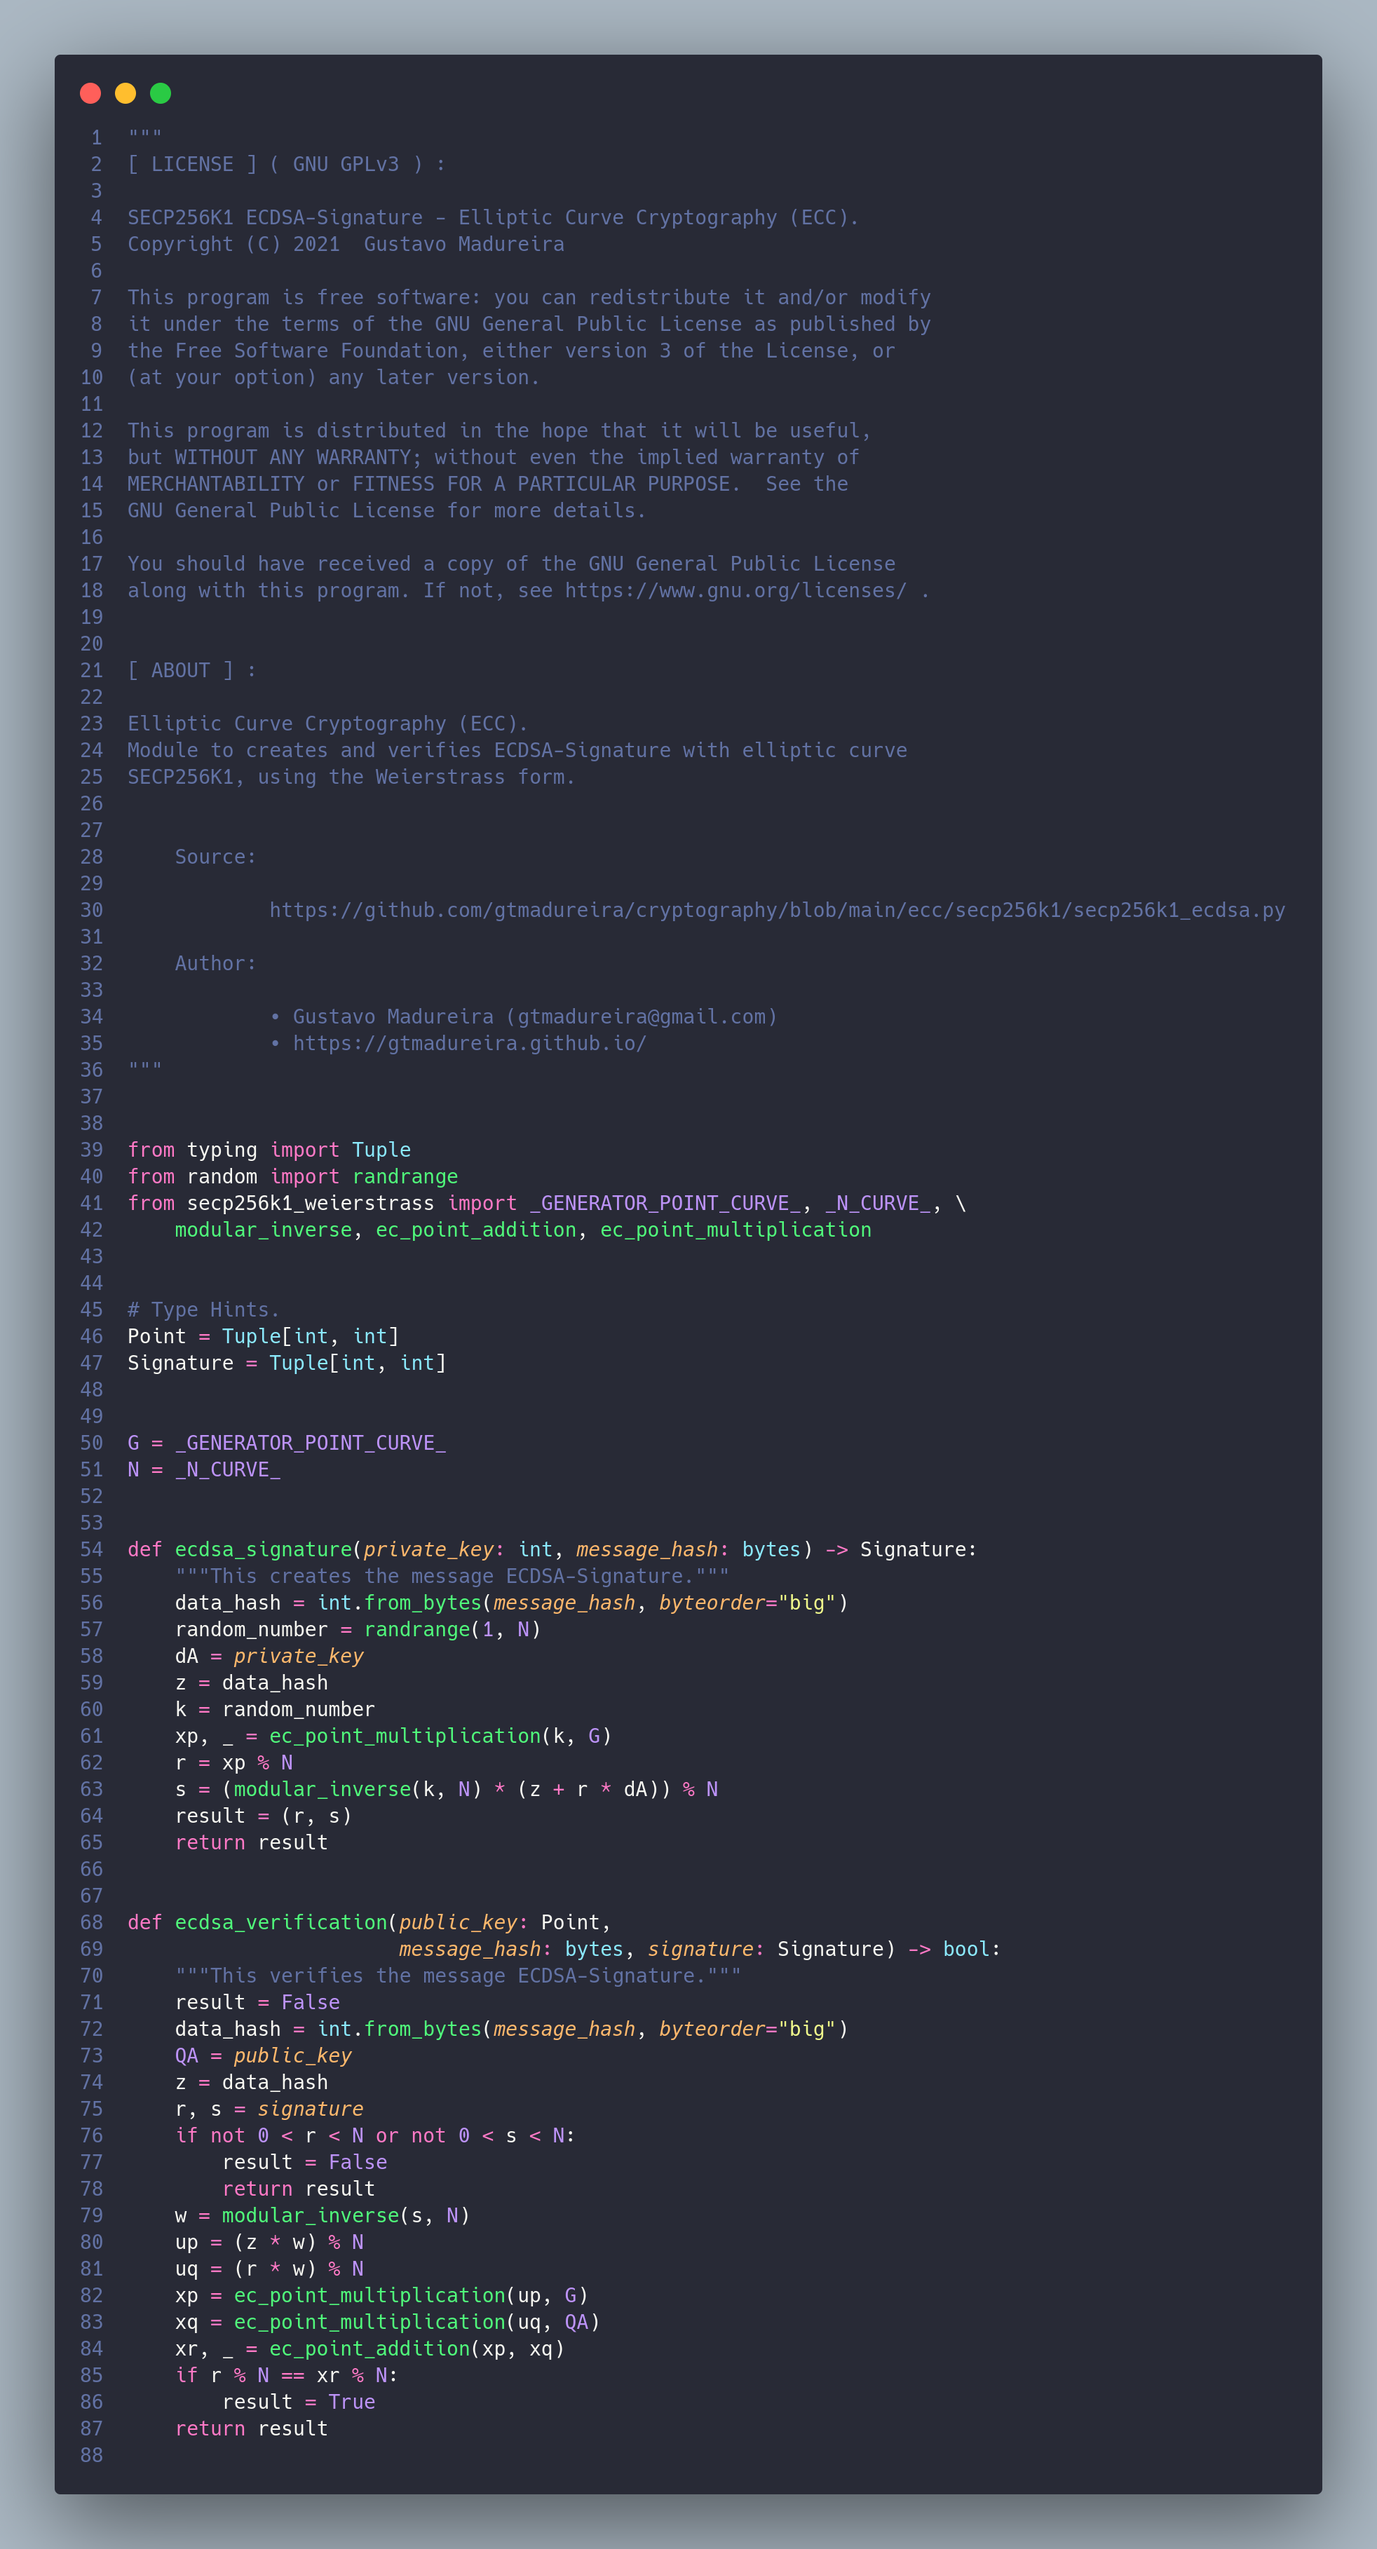
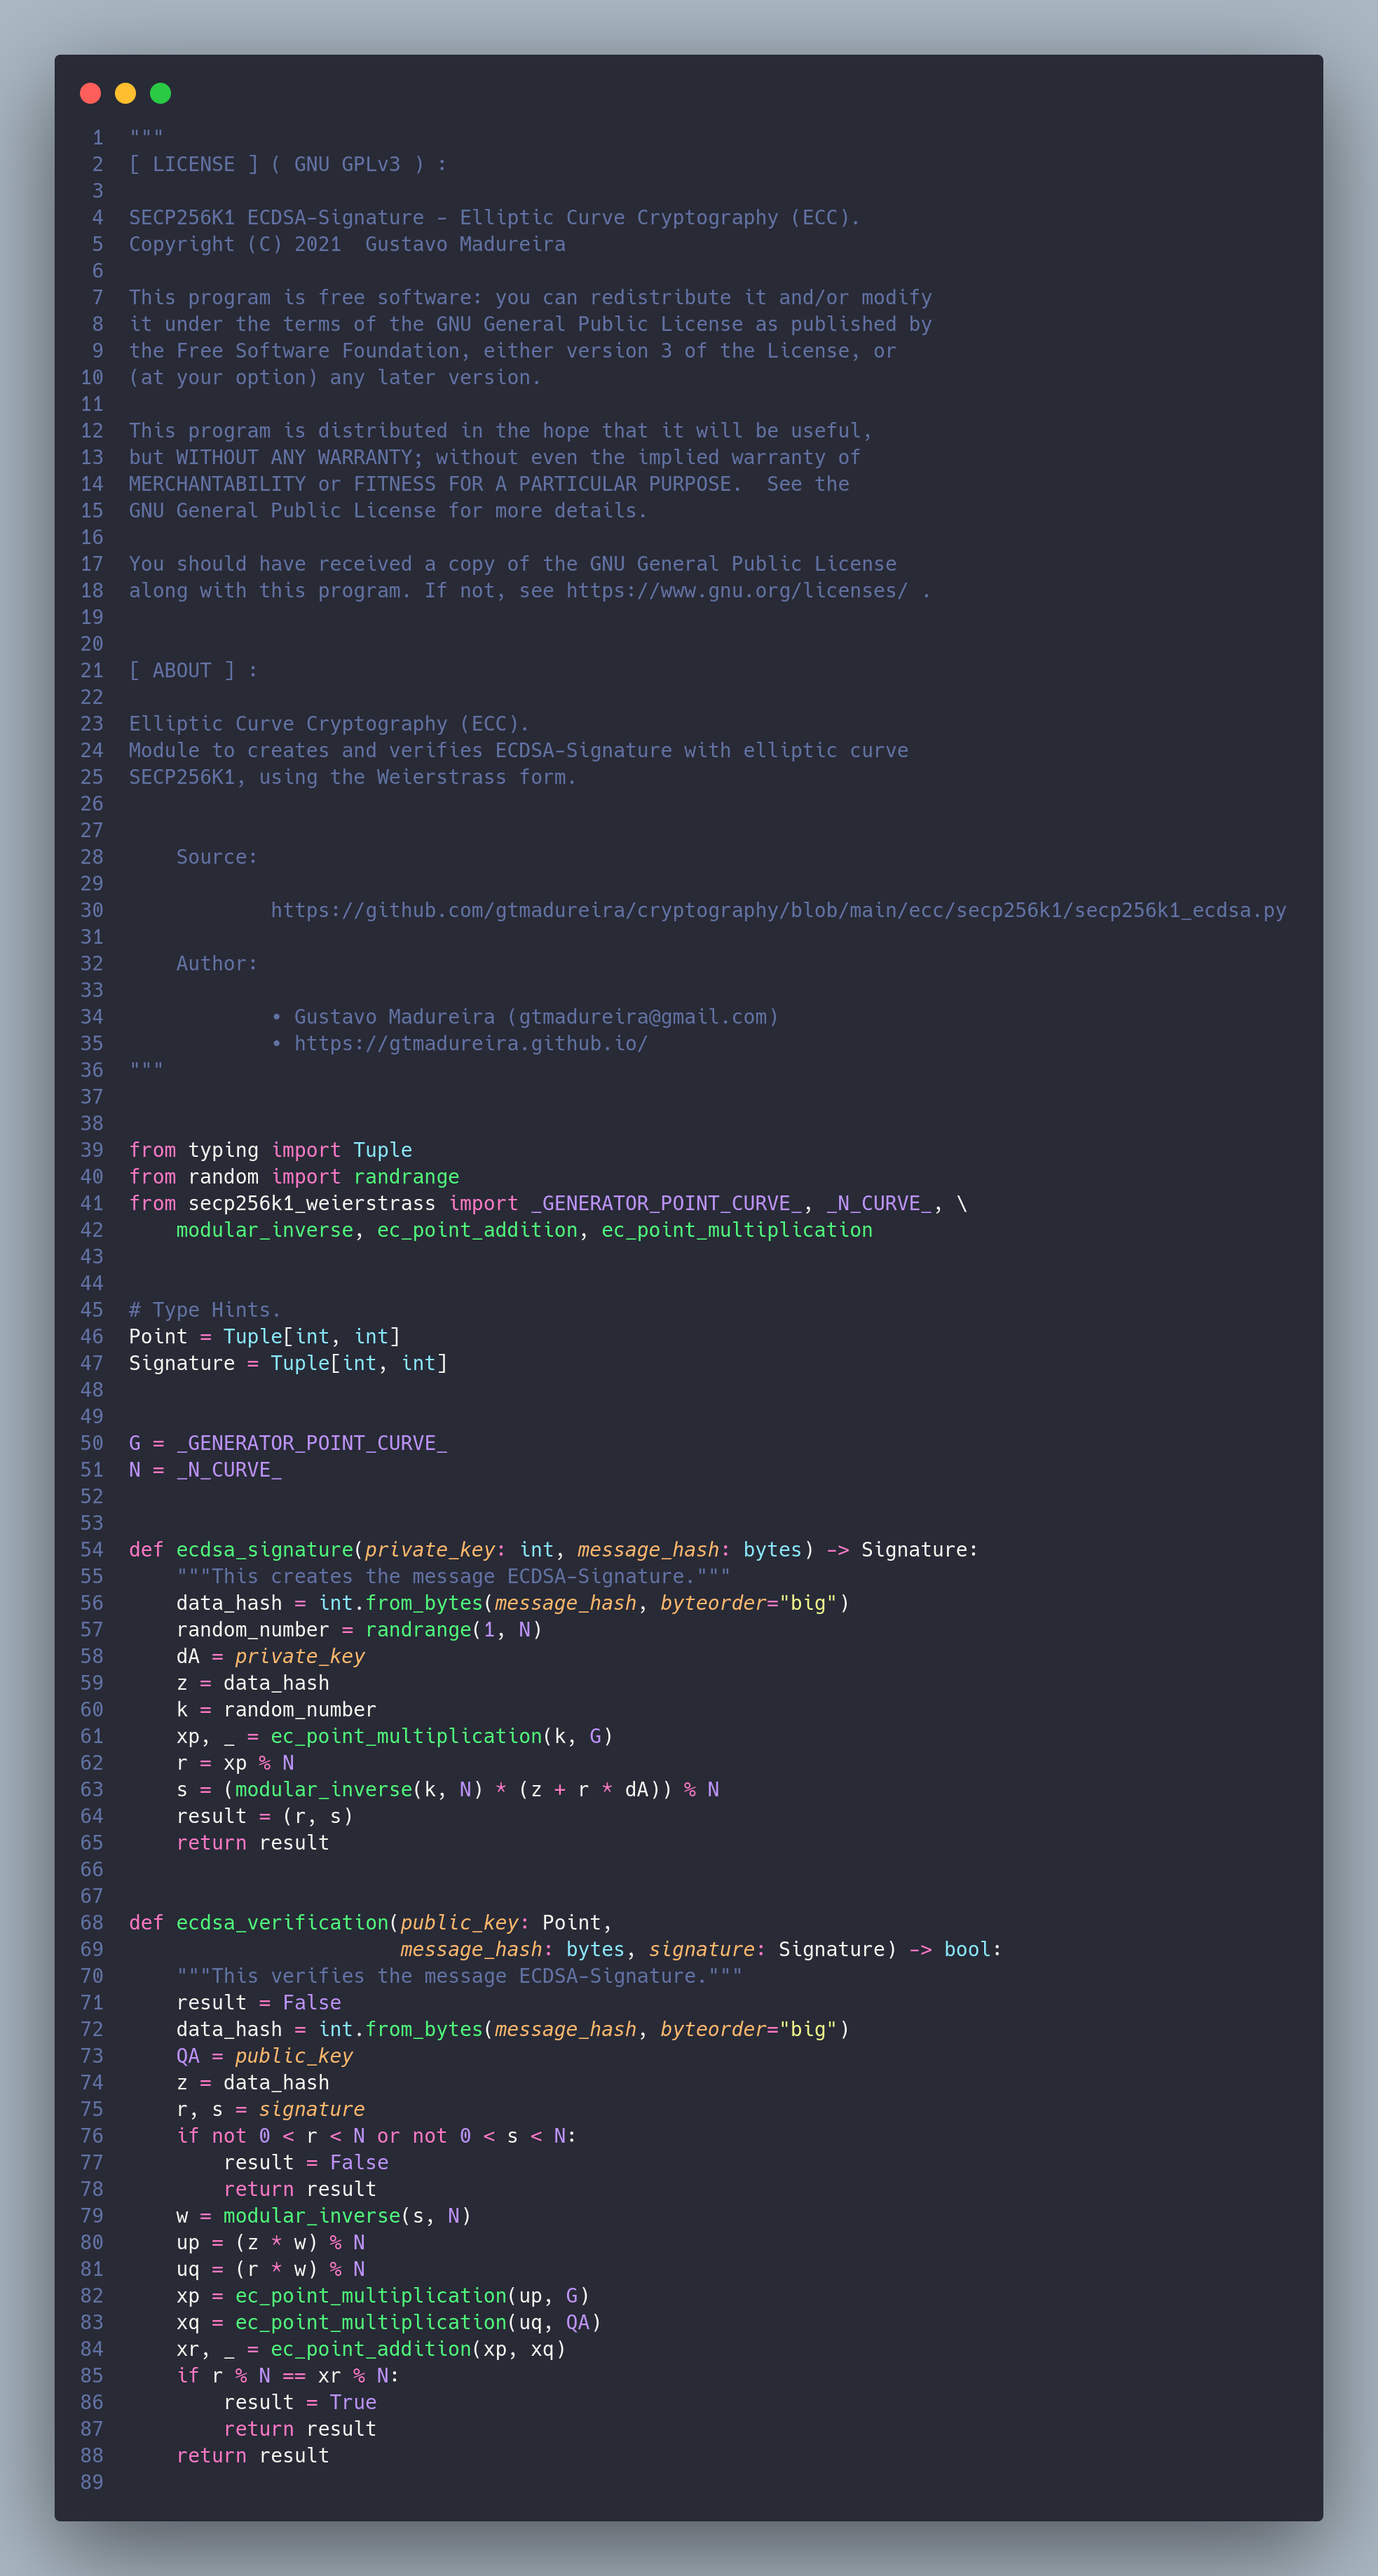
Elliptic Curve Cryptography (ECC), with curve secp256k1.

diff --git a/ecc/secp256k1/secp256k1_weierstrass.py b/ecc/secp256k1/secp256k1_weierstrass.py
@@ -91,8 +91,8 @@ _H_CURVE_ = int_from_hex(
     "00000000 00000000 00000000 00000000 00000000 00000000 00000000 00000001")
 
 
-# The point that points to infinity on the elliptic curve will
-# abstractly be defined by:
+# The point that points to infinity on the elliptic curve will be
+# defined by:
 _POINT_INFINITY_CURVE_ = (0, 0)
 
 
@@ -140,7 +140,7 @@ def is_infinite(point: Point) -> bool:
     Returns {True} if the {point} at infinity on the elliptic curve,
     otherwise it returns {False}.
     """
-    result = point is _POINT_INFINITY_CURVE_
+    result = point is _POINT_INFINITY_CURVE_ or 0 in point
     return result
 
 
@@ -200,7 +200,7 @@ def ec_point_doubling(point_p: Point) -> Point:
     It doubles {Point-P}.
     """
     assert is_on_curve(point_p)
-    if is_infinite(point_p) or 0 in point_p:
+    if is_infinite(point_p):
         result = _POINT_INFINITY_CURVE_
         return result
     xp, yp = point_p
@@ -233,9 +233,6 @@ def ec_point_addition(point_p: Point, point_q: Point) -> Point:
         result = _POINT_INFINITY_CURVE_
         return result
     if xp == xq and yp == yq:
-        if 0 in point_p:
-            result = _POINT_INFINITY_CURVE_
-            return result
         result = ec_point_doubling(point_p)
         return result
     slope = ((yq - yp) * modular_inverse(xq - xp, _FP_CURVE_)) % _FP_CURVE_
@@ -253,7 +250,7 @@ def ec_point_multiplication(scalar: int, point: Point) -> Point:
     It doubles {Point-P} and adds {Point-P} with {Point-Q}.
     """
     assert is_on_curve(point)
-    if scalar == 0 or is_infinite(point) or 0 in point:
+    if scalar == 0 or is_infinite(point):
         result = _POINT_INFINITY_CURVE_
         return result
     if scalar < 0 or scalar >= _N_CURVE_:

diff --git a/ecc/secp256k1/secp256k1_jacobian.py b/ecc/secp256k1/secp256k1_jacobian.py
@@ -92,14 +92,14 @@ _H_CURVE_ = int_from_hex(
     "00000000 00000000 00000000 00000000 00000000 00000000 00000000 00000001")
 
 
-# The point that points to infinity on the elliptic curve will
-# abstractly be defined by:
+# The point that points to infinity on the elliptic curve will be
+# defined by:
 _POINT_INFINITY_CURVE_ = (0, 0)
 
 
 # The point that points to infinity on the elliptic curve over Jacobian
-# coordinate will abstractly be defined by:
-_POINT_INFINITY_JACOBIAN_ = (0, 1, 0)
+# coordinate will be defined by:
+_POINT_INFINITY_JACOBIAN_ = (1, 1, 0)
 
 
 def modular_inverse(k: int, p: int) -> int:
@@ -146,7 +146,7 @@ def is_infinite(point: Point) -> bool:
     Returns {True} if the {point} at infinity on the elliptic curve,
     otherwise it returns {False}.
     """
-    result = point is _POINT_INFINITY_CURVE_
+    result = point is _POINT_INFINITY_CURVE_ or 0 in point
     return result
 
 
@@ -204,7 +204,8 @@ def is_infinite_jacobian(point: Jacobian_Coordinate) -> bool:
     Returns {True} if the {point} at infinity on the elliptic curve over
     Jacobian coordinate, otherwise it returns {False}.
     """
-    result = point is _POINT_INFINITY_JACOBIAN_
+    _, _, zp = point
+    result = point is _POINT_INFINITY_JACOBIAN_ or zp == 0
     return result
 
 
@@ -406,7 +407,7 @@ def jacobian_point_multiplication(scalar: int, point: Point) -> Point:
     It doubles {Point-P} and adds {Point-P} with {Point-Q}.
     """
     assert is_on_curve(point)
-    if scalar == 0 or is_infinite(point) or 0 in point:
+    if scalar == 0 or is_infinite(point):
         result = _POINT_INFINITY_CURVE_
         return result
     if scalar < 0 or scalar >= _N_CURVE_:

diff --git a/ecc/secp256k1/secp256k1_ecdsa.py b/ecc/secp256k1/secp256k1_ecdsa.py
@@ -84,6 +84,7 @@ def ecdsa_verification(public_key: Point,
     xr, _ = ec_point_addition(xp, xq)
     if r % N == xr % N:
         result = True
+        return result
     return result
 
 
